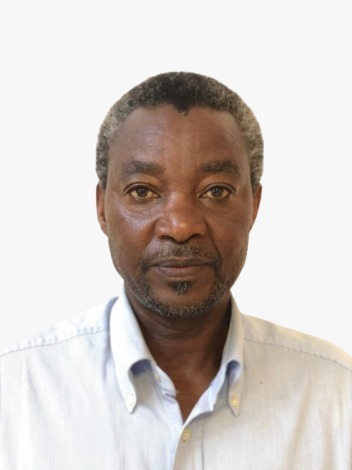
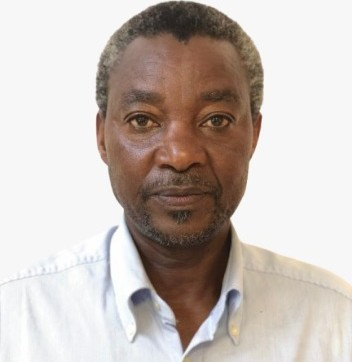
Add images and update page layouts/styles
Add multiple new image assets (founder photos, designs, goals, safety, swimming, etc.) and update team.jpg. Replace placeholder images across pages and refine layouts/styles: convert About page three-column grid to responsive flex with updated founder image, typography and sizing; swap exercise-therapy image to swimming55.jpg; update model-of-care to use goals4.jpg and safety24.jpg, adjust pillar grid/columns, card borders and image sizing; and tweak who-we-are-here-for card border color. These changes improve responsiveness, visual consistency, and replace placeholders with final assets.

diff --git a/src/app/about/page.tsx b/src/app/about/page.tsx
@@ -341,30 +341,29 @@ export default function AboutUsPage() {
         </div>
 
         {/* Three-column layout: Left text – Center image – Right text */}
-        <div className="grid lg:grid-cols-2 gap-10 lg:gap-12 items-center">
-          {/* Left paragraph */}
+        <div className="flex flex-col lg:flex-row gap-10 lg:gap-16 items-start lg:items-center">
+          {/* Left: Quote & Text Content */}
           <motion.div
             initial={{ opacity: 0, x: -30 }}
             whileInView={{ opacity: 1, x: 0 }}
             viewport={{ once: true }}
             transition={{ duration: 0.7 }}
-            className="lg:col-span-1 order-2 lg:order-1 bg-white rounded-2xl p-8 md:p-10 shadow-lg border-4 border-[#FFB347]"
+            className="lg:flex-1 order-2 lg:order-1 bg-white rounded-2xl p-8 md:p-10 shadow-lg border-4 border-[#FFB347]"
           >
-            <p className="text-base font-medium text-gray-700 mb-4  leading-relaxed">
-              &quot;I understand that nurturing children with
-              neuro-developmental conditions and milestone delays can be a walk
-              through seasons of uncertainty, burnout, pain, and quiet
-              resilience. Complexities such as impaired motor control, reduced
-              strength, balance deficits, and altered proprioception affect a
-              child’s independence, making care intricate and complex. At Arukah
-              Health, we create a community where families can breathe, hope,
-              and feel understood. A space where exercise is utilized in
-              building core dimensions of physical function in a fun and
-              intentional manner. A space where every child’s story is honored
-              and small steps are cultured into great milestones.
+            <p className="text-base font-medium text-gray-700 mb-4 leading-relaxed">
+              “I understand that nurturing children with neuro-developmental
+              conditions and milestone delays can be a walk through seasons of
+              uncertainty, burnout, pain, and quiet resilience. Complexities
+              such as impaired motor control, reduced strength, balance
+              deficits, and altered proprioception affect a child’s
+              independence, making care intricate and complex. At Arukah Health,
+              we create a community where families can breathe, hope, and feel
+              understood. A space where exercise is utilized in building core
+              dimensions of physical function in a fun and intentional manner. A
+              space where every child’s story is honored and small steps are
+              cultured into great milestones.
             </p>
-            <p className="text-base font-medium text-gray-700 mb-4  leading-relaxed">
-              {" "}
+            <p className="text-base font-medium text-gray-700 mb-4 leading-relaxed">
               Arukah Health is built on the belief that Exercise is Medicine.
               For us, exercise is more than biomechanics—it’s a language of
               healing, play, and growth. Every stretch, step, and breath is an
@@ -385,36 +384,36 @@ export default function AboutUsPage() {
               Home!
               <span className="text-gray-700">”</span>
             </p>
-            <p className="text-base md:text-2xl font-medium text-blue-700 mb-4 font-semibold  italic leading-relaxed">
+            <p className="text-base md:text-2xl font-medium text-blue-700 mb-4 font-semibold italic leading-relaxed">
               Welcome to Arukah Health!
             </p>
           </motion.div>
 
-          {/* Center: Founder Image + Name/Title */}
+          {/* Right: Larger Founder Image + Name/Title */}
           <motion.div
             initial={{ opacity: 0, scale: 0.92 }}
             whileInView={{ opacity: 1, scale: 1 }}
             viewport={{ once: true }}
             transition={{ duration: 0.8 }}
-            className="lg:col-span-1 order-1 lg:order-2 flex flex-col items-center"
+            className="lg:flex-1 order-1 lg:order-2 flex flex-col items-center"
           >
-            <div className="relative w-full max-w-sm  overflow-hidden  ">
+            <div className="relative w-full max-w-lg lg:max-w-xl rounded-3xl overflow-hidden shadow-2xl">
               <Image
-                src="/images/Untitled_design__6_-removebg-preview.png"
+                src="/images/Ivy Gacheri (3).png"
                 alt="Ivy Gacheri – Founder & CEO of Arukah Health"
                 width={800}
-                height={1000}
-                className="w-full h-100 object-cover"
+                height={1400}
+                className="w-full h-auto object-cover"
                 priority
               />
             </div>
 
-            <div className="mt-6 text-left">
-              <h3 className="text-lg font-serif font-bold text-blue-700 mb-1">
-                Ivy Gacheri{" "}
+            <div className="mt-6 text-center">
+              <h3 className="text-3xl md:text-4xl font-serif font-bold text-blue-700 mb-1">
+                Ivy Gacheri
               </h3>
-              <h3 className="text-orange-600 font-serif">
-                Founder & CEO Arukah Health
+              <h3 className="text-xl md:text-2xl font-bold font-serif text-orange-600">
+                Founder & CEO, Arukah Health
               </h3>
             </div>
           </motion.div>

diff --git a/src/app/model-of-care/page.tsx b/src/app/model-of-care/page.tsx
@@ -29,7 +29,7 @@ We work in collaboration with pediatricians, neurologists, physiotherapists, occ
       color: "#FFB347",
       shortDesc:
         "Meaningful, measurable goals to ensure longevity and long term progress.",
-      imageUrl: "/images/goals.jpg",
+      imageUrl: "/images/goals4.jpg",
       details: `
 Our programs are designed to achieve measurable, functional outcomes that are monitored, tracked and adjusted to maximize long term developmental potential. Through evidence based exercise therapy and interdisciplinary collaboration, families can expect:
 <br><br>
@@ -60,7 +60,7 @@ Our model of care recognizes parents and caregivers as essential partners in the
       color: "#FFB347",
       shortDesc:
         "Safe, supportive environments coupled with customized plans for effective, age appropriate progress.",
-      imageUrl: "/images/safety.jpg",
+      imageUrl: "/images/safety24.jpg",
       details: `
 Our interventions are delivered within a supervised, safe, and supportive environment, ensuring that every child’s medical profile and developmental needs are fully considered. Each program is individually tailored through comprehensive assessment of neurological status, functional capacity, and co existing medical conditions. This process allows us to:
 <br><br>
@@ -113,16 +113,14 @@ Our interventions are delivered within a supervised, safe, and supportive enviro
           Our 4 Pillars
         </h2>
 
-        <div className="absolute top-1/2 left-0 right-0 h-1 bg-gradient-to-r from-[#4793FF] via-[#FFB347] to-[#4793FF] rounded-full hidden lg:block" />
-
-        <div className="max-w-7xl mx-auto grid grid-cols-1 md:grid-cols-2 lg:grid-cols-4 gap-8 lg:gap-6 relative z-10">
+        <div className="max-w-7xl mx-auto grid grid-cols-1 md:grid-cols-2 lg:grid-cols-2 gap-8 lg:gap-12 relative z-10">
           {pillars.map((pillar, index) => (
             <div
               key={pillar.title}
-              className="bg-white rounded-3xl text-blue-700 shadow-lg hover:shadow-2xl transition-all  duration-300 border-4 border-blue-700 flex flex-col hover:scale-105 relative min-h-[480px] overflow-hidden hover:border-orange-600  "
+              className="bg-white rounded-3xl text-blue-700 shadow-lg hover:shadow-2xl transition-all  duration-300 border-4 border-[#FFB347] flex flex-col hover:scale-105 relative min-h-[480px] overflow-hidden hover:border-orange-600  "
             >
               {/* Full-width top image */}
-              <div className="relative h-48 w-full">
+              <div className="relative h-88 w-full">
                 <Image
                   src={pillar.imageUrl}
                   alt={pillar.title}
@@ -213,7 +211,7 @@ Our interventions are delivered within a supervised, safe, and supportive enviro
           Ready to Begin Your Child’s Journey?
         </h3>
         <p className="text-xl text-gray-700 mb-8 max-w-2xl mx-auto">
-         Contact us today to discuss how we can support your child.
+          Contact us today to discuss how we can support your child.
         </p>
         <Link
           href="/contact"

diff --git a/src/app/who-we-are-here-for/page.tsx b/src/app/who-we-are-here-for/page.tsx
@@ -48,7 +48,7 @@ export default function WhoWeAreHereFor() {
               whileInView={{ opacity: 1, y: 0 }}
               viewport={{ once: true }}
               transition={{ duration: 0.4, delay: index * 0.05 }}
-              className="bg-white border-3 border-orange-600 rounded-2xl p-6 shadow-sm"
+              className="bg-white border-3 border-orange-300 rounded-2xl p-6 shadow-sm"
             >
               <h3 className="font-serif text-xl font-semibold text-blue-700 mb-4">
                 {section.title}

diff --git a/src/app/exercise-therapy/page.tsx b/src/app/exercise-therapy/page.tsx
@@ -349,7 +349,7 @@ export default function ExerciseTherapy() {
             </div>
             <div className="relative rounded-3xl overflow-hidden border-4 border-orange-300 shadow-2xl order-1 lg:order-2">
               <Image
-                src="/images/swimming6.jpg"
+                src="/images/swimming55.jpg"
                 alt="Child guided swimming session"
                 width={1200}
                 height={800}
